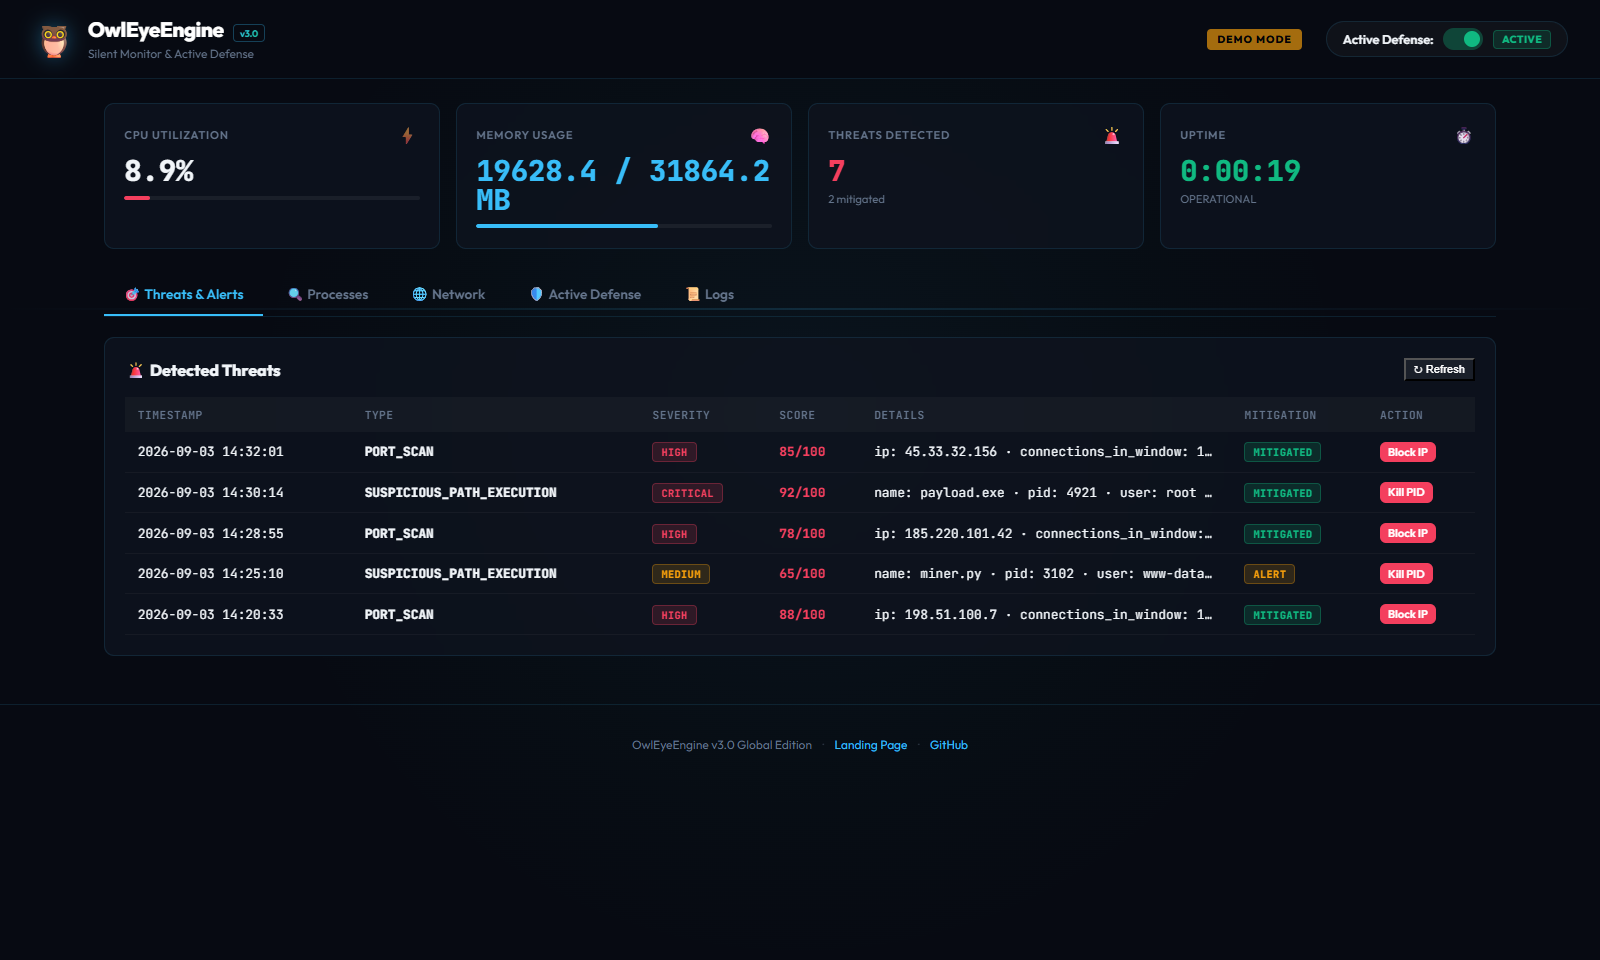
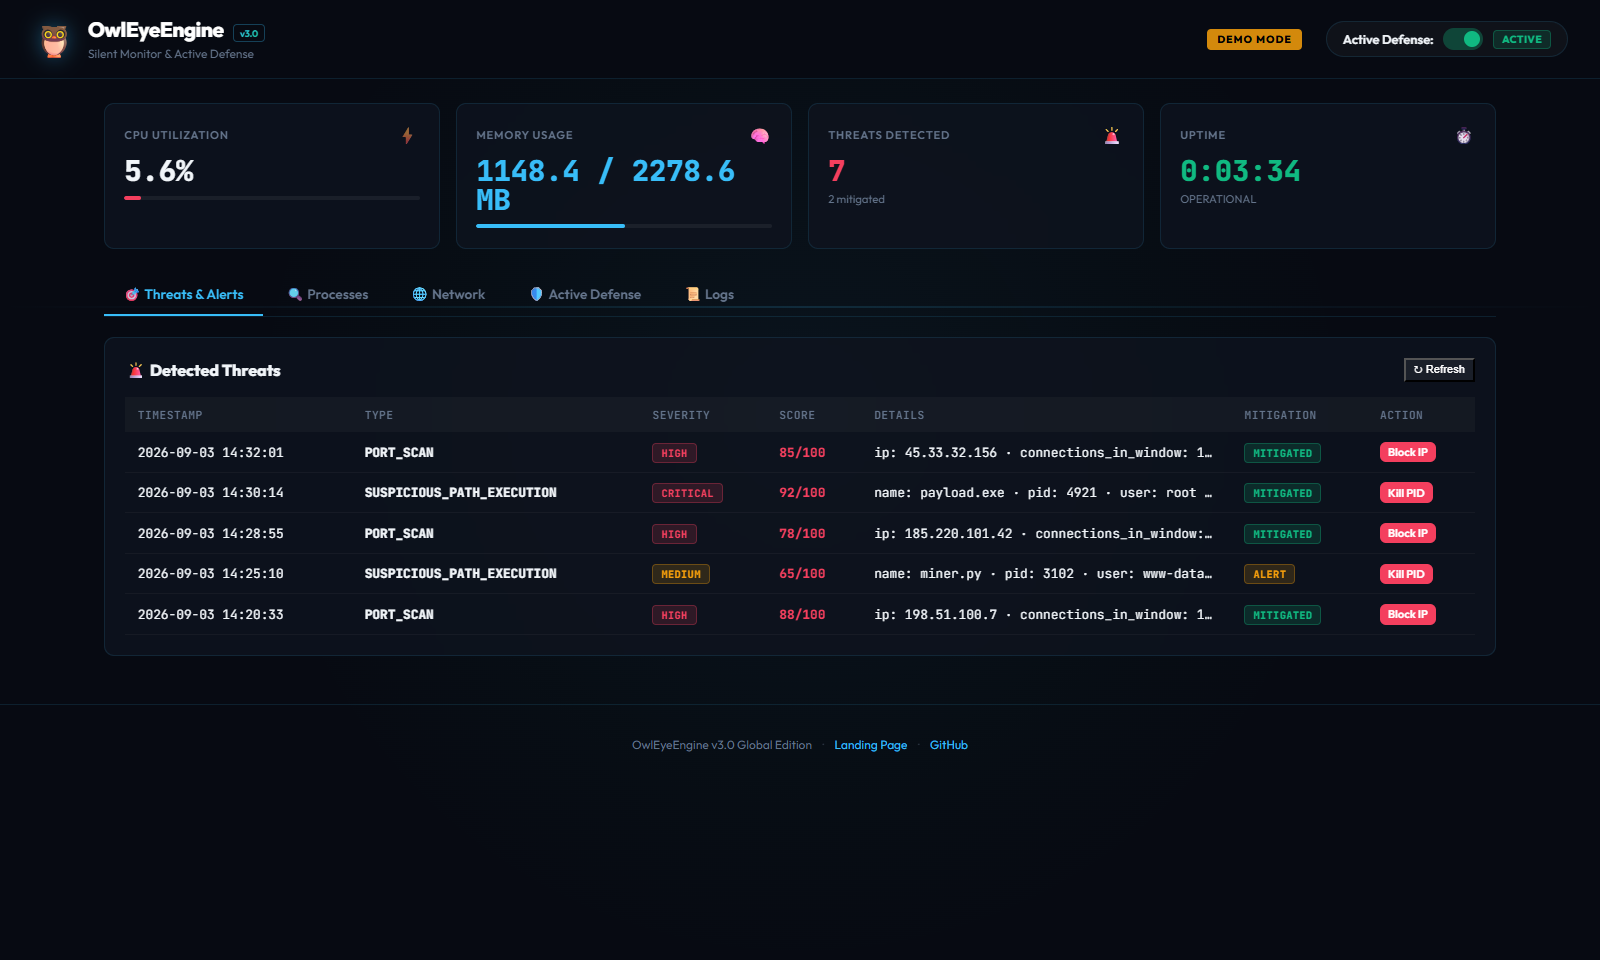
feat(portfolio): update OwlEyeEngine with production URL and live screenshot
- Capture screenshot from the live Vercel deployment (owl-eye-engine.vercel.app)
- Update link to production URL and mark project as EN PRODUCCIÓN

diff --git a/src/components/Portfolio/PortfolioSection.tsx b/src/components/Portfolio/PortfolioSection.tsx
@@ -228,9 +228,9 @@ const INITIAL_PROJECTS: Project[] = [
       'Modo demo con datos simulados para despliegue serverless',
       'Alertas por Telegram y registro sigiloso persistente',
     ],
-    link: 'https://owleye.vercel.app',
-    status: 'demo',
-    statusLabel: 'DEMO EN LÍNEA',
+    link: 'https://owl-eye-engine.vercel.app',
+    status: 'live',
+    statusLabel: 'EN PRODUCCIÓN',
   },
 ]
 
